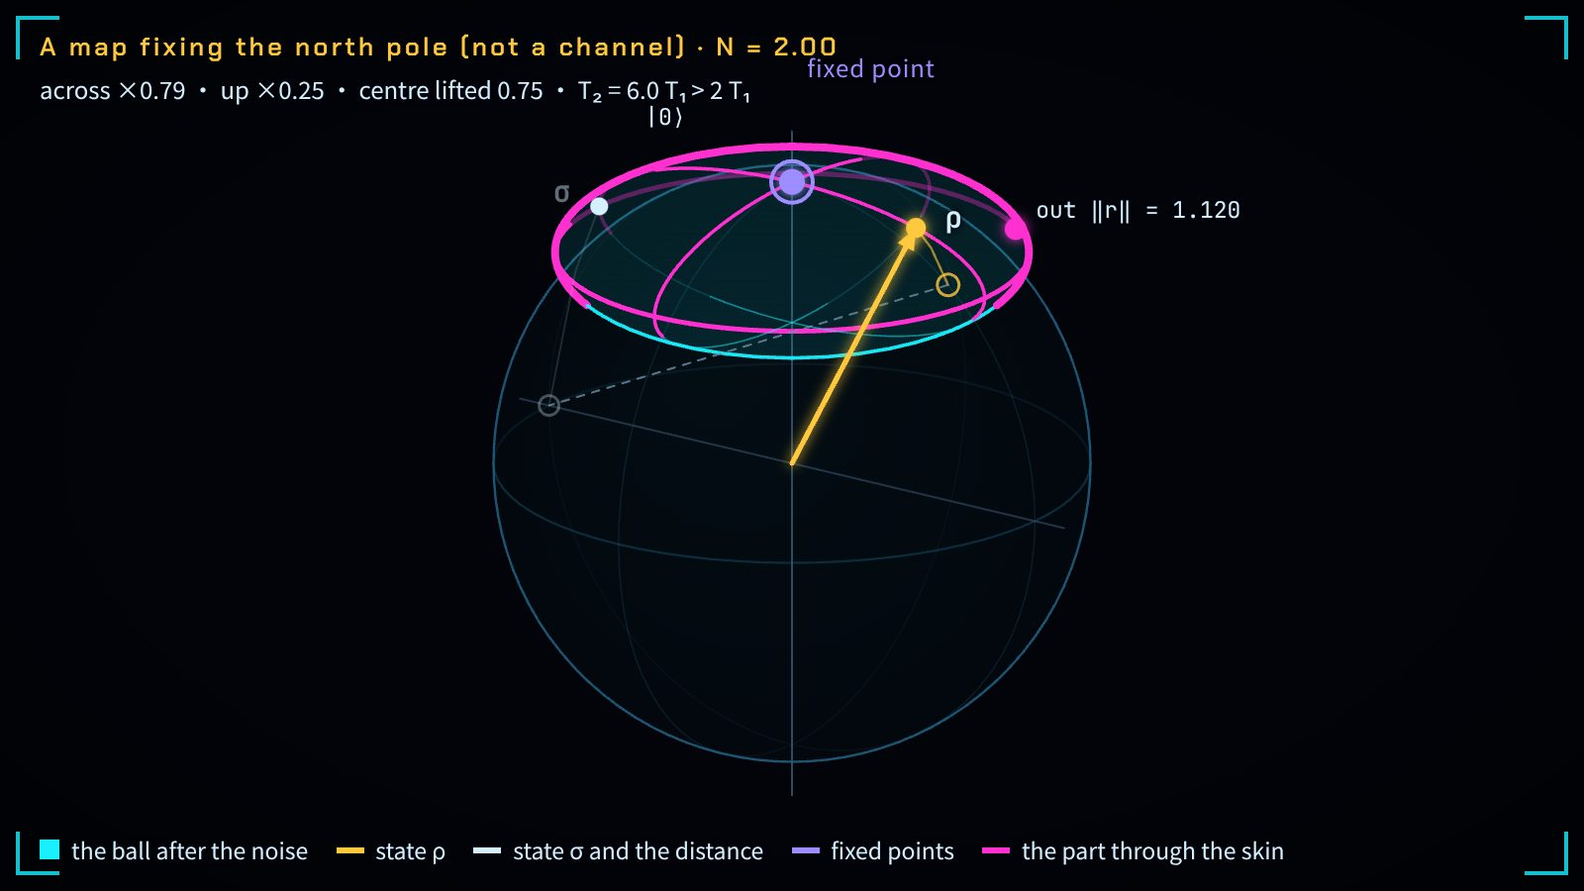
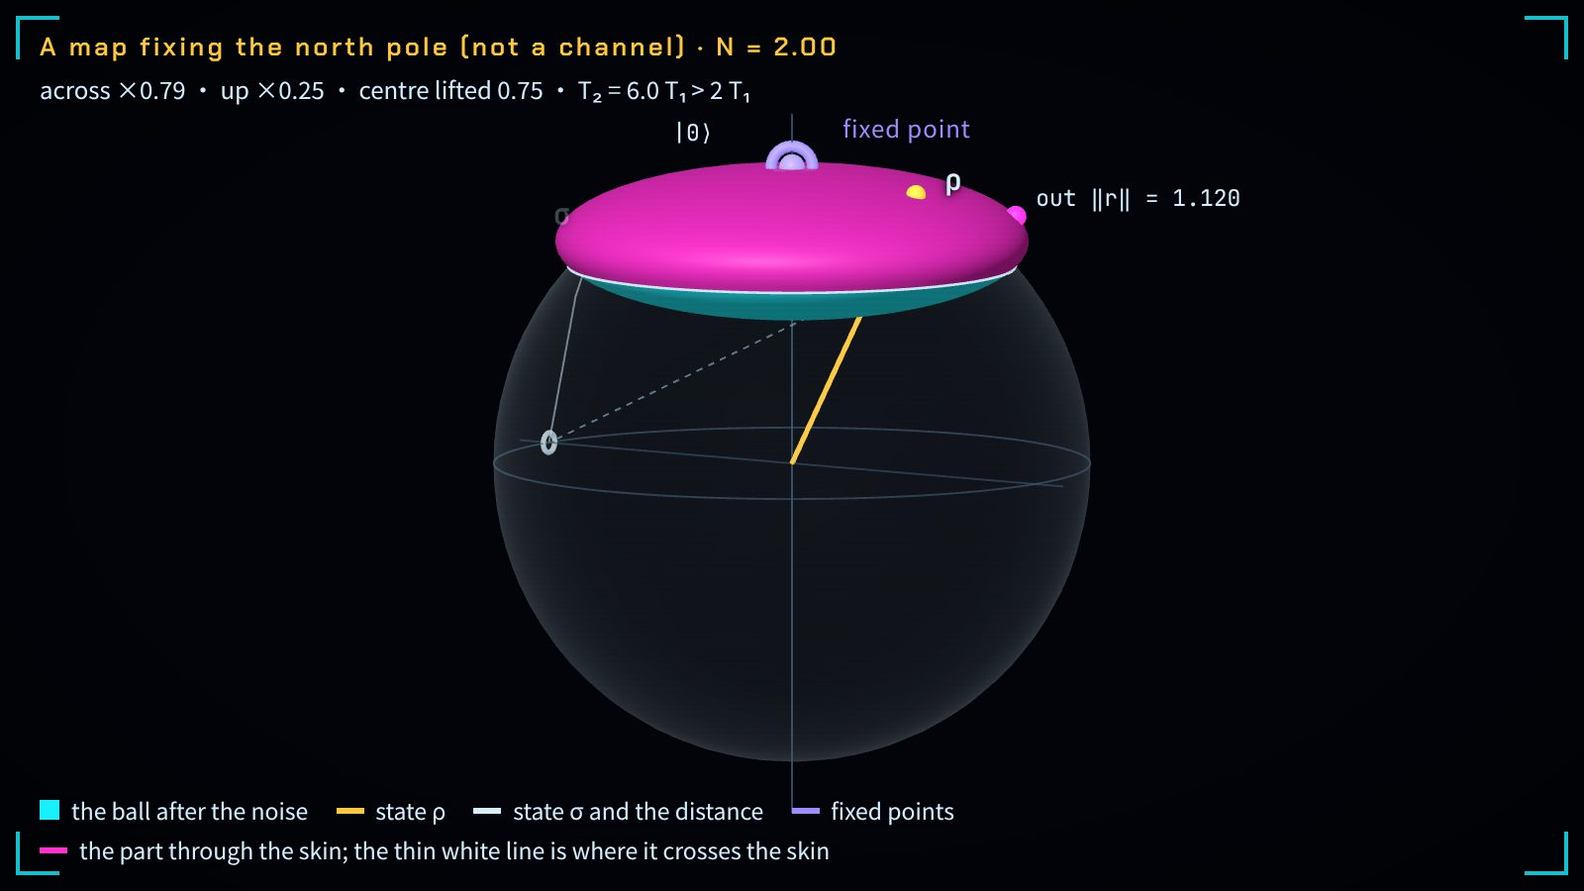
bloch-noise：不是信道的映射画成玻璃球壳里的受光实体，刺出球壳的一块着品红
只有 T2 > 2T1 一卡（及自由探索里 λ² > a 的映射）改用 kit.solid：单位球为玻璃球壳，
像为不透明受光实体，球里青色、球外品红，交线为白色细线，该卡镜头放低、下一张卡还原。
其余六张卡仍是线框画法，静态图与封面逐字节不变。测试另加独立核对：品红一块的起点
（二分法）、交线落在单位球面、画面像素颜色、书内静止交还上下文。

Changed region(s): [[0.3125, 0.1244, 0.7812, 0.8711], [0.0, 0.9022, 0.8125, 0.9644], [0.5, 0.0622, 0.5938, 0.0933]]

diff --git a/books/quantum-geometry/viz/bloch-noise/index.html b/books/quantum-geometry/viz/bloch-noise/index.html
@@ -71,8 +71,9 @@
   </aside>
 
   <main class="center">
-    <div class="stage" id="stage" data-thumb aria-label="布洛赫球：细线是噪声之前的单位球，青色是噪声之后球的像；琥珀色的态 ρ、白色的态 σ 与它们之间的白线；紫色是不动点" data-aria-en="Bloch ball: the thin wire is the unit ball before the noise, the cyan body is its image after the noise; the amber state ρ, the white state σ and the white line between them; violet marks the fixed points">
+    <div class="stage" id="stage" data-thumb aria-label="布洛赫球：细线是噪声之前的单位球，青色是噪声之后球的像；琥珀色的态 ρ、白色的态 σ 与它们之间的白线；紫色是不动点；不是信道的映射下，单位球画成玻璃球壳，像画成受光的实体，落在球外的一块是品红" data-aria-en="Bloch ball: the thin wire is the unit ball before the noise, the cyan body is its image after the noise; the amber state ρ, the white state σ and the white line between them; violet marks the fixed points; for a map that is not a channel the unit ball is a glass shell and the image a lit solid, magenta where it lies outside the ball">
       <canvas class="fill" id="cv"></canvas>
+      <canvas class="fill" id="sv" aria-hidden="true"></canvas>
       <div class="scan"></div><div class="vig"></div>
       <span class="bracket tl"></span><span class="bracket tr"></span><span class="bracket bl"></span><span class="bracket br"></span>
       <div class="hud-tl"><span class="big" id="hudBig"></span><span class="sub" id="hudSub"></span></div>
@@ -81,7 +82,7 @@
         <span><i class="sw am"></i><span class="zh">态 ρ</span><span class="en">state ρ</span></span>
         <span><i class="sw ik"></i><span class="zh">态 σ 与两态距离</span><span class="en">state σ and the distance</span></span>
         <span><i class="sw vi"></i><span class="zh">不动点</span><span class="en">fixed points</span></span>
-        <span id="legEsc" hidden><i class="sw mg"></i><span class="zh">刺穿球皮的部分</span><span class="en">the part through the skin</span></span>
+        <span id="legEsc" hidden><i class="sw mg"></i><span class="zh">刺穿球皮的部分；白色细线是它与球皮的交线</span><span class="en">the part through the skin; the thin white line is where it crosses the skin</span></span>
       </div>
       <div class="toast" id="toast" role="status" aria-live="polite"></div>
     </div>
@@ -155,7 +156,7 @@
       <ol>
         <li><b>三种噪声的形状。</b>相位阻尼 (cx, cy, z)：只收腰、不掉高，不动点是整根竖轴；振幅阻尼 (√a x, √a y, az + 1 − a)：缩小并往北极上漂，只有北极不动；去极化 (fx, fy, fz)：同心缩小，只有球心不动。页面里每一步取 c = 1 − p、a = 1 − p、f = 1 − p，走 N 步就是 c^N、a^N、f^N。上面说的不动点都是 p &gt; 0 时的；p = 0 时三种噪声每一步都是恒等映射，整颗球处处不动。这些布洛赫形式是标准教材算例：文献结果，未在本书形式化。</li>
         <li><b>相位阻尼与捏合。</b>相位阻尼迭代 N 次只把副对角元乘以 c^N：<a class="leanref" data-lean-gid="D5/S3/Quantum/QubitWitnesses.phaseDampingIterate_apply" href="#" target="_blank" rel="noopener"><code>phaseDampingIterate_apply</code></a>（LEAN ✓）；c &lt; 1 时等权叠加态的相干元趋于零：<a class="leanref" data-lean-gid="D5/S3/Quantum/Decoherence/CoherenceDecay.equal_superposition_coherence_tendsto_zero" href="#" target="_blank" rel="noopener"><code>equal_superposition_coherence_tendsto_zero</code></a>（LEAN ✓）。c = 0 一步就是捏合：捏合丢掉的相干质量是 |ρ₀₁|² + |ρ₁₀|²，在布洛赫坐标里等于 (x² + y²)/2（手算）：<a class="leanref" data-lean-gid="D5/S3/QuantumChannels/PinchingProjection.pinching_discarded_coherence_mass" href="#" target="_blank" rel="noopener"><code>pinching_discarded_coherence_mass</code></a>（LEAN ✓）；捏合的不动点恰是副对角元为零的矩阵，即竖轴：<a class="leanref" data-lean-gid="D5/S3/QuantumChannels/CoherenceMassBridge.pinching_eq_self_iff_offDiag_eq_zero" href="#" target="_blank" rel="noopener"><code>pinching_eq_self_iff_offDiag_eq_zero</code></a>（LEAN ✓）。</li>
-        <li><b>横向最多留多少。</b>固定北极的映射 (λx, λy, az + 1 − a) 保持整个闭单位球，当且仅当 λ² ≤ a：<a class="leanref" data-lean-gid="D5/S3/QuantumChannels/ContractionGeometry/NorthPoleBallCriterion.north_pole_ball_preserving_iff" href="#" target="_blank" rel="noopener"><code>north_pole_ball_preserving_iff</code></a>（LEAN ✓）。纯振幅阻尼取 λ = √a，恰好饱和。滑块 T₂ / T₁ 按第四章的指数包络 a = e^{−t/T₁}、λ = e^{−t/T₂} 取 λ = a^{T₁/T₂}；于是当 0 &lt; p &lt; 1（即 0 &lt; a &lt; 1）时，λ² ≤ a 当且仅当 T₂ ≤ 2T₁，T₂ &gt; 2T₁ 时像的一部分落到球外（品红），这样的映射不把态送到态。p = 0 与 p = 1 两端对任何比值都有 λ² = a：p = 0 时每一步是恒等映射，p = 1 时每一步是 γ = 1 的振幅阻尼，把整颗球复位到北极，两者都是信道。这里判定的只是球的保持性，不是完全正性。</li>
+        <li><b>横向最多留多少。</b>固定北极的映射 (λx, λy, az + 1 − a) 保持整个闭单位球，当且仅当 λ² ≤ a：<a class="leanref" data-lean-gid="D5/S3/QuantumChannels/ContractionGeometry/NorthPoleBallCriterion.north_pole_ball_preserving_iff" href="#" target="_blank" rel="noopener"><code>north_pole_ball_preserving_iff</code></a>（LEAN ✓）。纯振幅阻尼取 λ = √a，恰好饱和。滑块 T₂ / T₁ 按第四章的指数包络 a = e^{−t/T₁}、λ = e^{−t/T₂} 取 λ = a^{T₁/T₂}；于是当 0 &lt; p &lt; 1（即 0 &lt; a &lt; 1）时，λ² ≤ a 当且仅当 T₂ ≤ 2T₁，T₂ &gt; 2T₁ 时像的一部分落到球外（品红），这样的映射不把态送到态；这时舞台把单位球画成玻璃球壳、把像画成受光的实体，刺出的一块着品红，它与球壳的交线是一圈白色细线。p = 0 与 p = 1 两端对任何比值都有 λ² = a：p = 0 时每一步是恒等映射，p = 1 时每一步是 γ = 1 的振幅阻尼，把整颗球复位到北极，两者都是信道。这里判定的只是球的保持性，不是完全正性。</li>
         <li><b>距离只减不增。</b>对任意量子信道，迹距离不增：<a class="leanref" data-lean-gid="D5/S3/Quantum/Foundation/FiniteTraceDistance.traceDistance_contract" href="#" target="_blank" rel="noopener"><code>traceDistance_contract</code></a>（LEAN ✓）。单比特上 T = ½‖r − s‖ 是手算换算。步与步之间页面取相邻两个整数步输出的凸组合；每一步是信道时它也是信道，所以白线在整条时间轴上都只缩不长；整数步上的数与 N 次迭代完全一致。</li>
         <li><b>球心。</b>强度为 1 的去极化把整颗球送到球心 r = 0，即 ρ = I/2：从哪个态出发都落在同一点，距离为零。</li>
       </ol>
@@ -166,7 +167,7 @@
       <ol>
         <li><b>The shapes of the three noises.</b> Phase damping (cx, cy, z) narrows the waist and keeps the height; its fixed points are the whole vertical axis. Amplitude damping (√a x, √a y, az + 1 − a) shrinks the ball and lifts it towards the north pole, the only fixed point. Depolarizing (fx, fy, fz) shrinks it evenly towards the centre, the only fixed point. Each step on the page takes c = 1 − p, a = 1 − p, f = 1 − p, so N steps give c^N, a^N, f^N. The fixed points named here are those for p &gt; 0; at p = 0 each of the three noises is the identity at every step, and the whole ball stays put. These Bloch forms are standard textbook computations: literature result, not formalized in this book.</li>
         <li><b>Phase damping and pinching.</b> Phase damping iterated N times only multiplies the off-diagonal entries by c^N: <a class="leanref" data-lean-gid="D5/S3/Quantum/QubitWitnesses.phaseDampingIterate_apply" href="#" target="_blank" rel="noopener"><code>phaseDampingIterate_apply</code></a> (LEAN ✓); for c &lt; 1 the coherence of the equal superposition tends to zero: <a class="leanref" data-lean-gid="D5/S3/Quantum/Decoherence/CoherenceDecay.equal_superposition_coherence_tendsto_zero" href="#" target="_blank" rel="noopener"><code>equal_superposition_coherence_tendsto_zero</code></a> (LEAN ✓). One step with c = 0 is pinching: the coherence mass it discards is |ρ₀₁|² + |ρ₁₀|², which is (x² + y²)/2 in Bloch coordinates (by hand): <a class="leanref" data-lean-gid="D5/S3/QuantumChannels/PinchingProjection.pinching_discarded_coherence_mass" href="#" target="_blank" rel="noopener"><code>pinching_discarded_coherence_mass</code></a> (LEAN ✓); the fixed points of pinching are exactly the matrices with zero off-diagonal entries, the vertical axis: <a class="leanref" data-lean-gid="D5/S3/QuantumChannels/CoherenceMassBridge.pinching_eq_self_iff_offDiag_eq_zero" href="#" target="_blank" rel="noopener"><code>pinching_eq_self_iff_offDiag_eq_zero</code></a> (LEAN ✓).</li>
-        <li><b>How much may stay sideways.</b> The north-pole map (λx, λy, az + 1 − a) keeps the whole closed unit ball if and only if λ² ≤ a: <a class="leanref" data-lean-gid="D5/S3/QuantumChannels/ContractionGeometry/NorthPoleBallCriterion.north_pole_ball_preserving_iff" href="#" target="_blank" rel="noopener"><code>north_pole_ball_preserving_iff</code></a> (LEAN ✓). Pure amplitude damping takes λ = √a and saturates it. The T₂ / T₁ slider follows the exponential envelopes of Chapter 4, a = e^{−t/T₁} and λ = e^{−t/T₂}, so λ = a^{T₁/T₂}. For 0 &lt; p &lt; 1 (that is, 0 &lt; a &lt; 1), λ² ≤ a exactly when T₂ ≤ 2T₁; for T₂ &gt; 2T₁ part of the image lies outside the ball (magenta), and such a map does not send states to states. At the two ends λ² = a whatever the ratio: at p = 0 each step is the identity, and at p = 1 each step is amplitude damping with γ = 1, which resets the whole ball to the north pole; both are channels. This decides only whether the ball is kept, not complete positivity.</li>
+        <li><b>How much may stay sideways.</b> The north-pole map (λx, λy, az + 1 − a) keeps the whole closed unit ball if and only if λ² ≤ a: <a class="leanref" data-lean-gid="D5/S3/QuantumChannels/ContractionGeometry/NorthPoleBallCriterion.north_pole_ball_preserving_iff" href="#" target="_blank" rel="noopener"><code>north_pole_ball_preserving_iff</code></a> (LEAN ✓). Pure amplitude damping takes λ = √a and saturates it. The T₂ / T₁ slider follows the exponential envelopes of Chapter 4, a = e^{−t/T₁} and λ = e^{−t/T₂}, so λ = a^{T₁/T₂}. For 0 &lt; p &lt; 1 (that is, 0 &lt; a &lt; 1), λ² ≤ a exactly when T₂ ≤ 2T₁; for T₂ &gt; 2T₁ part of the image lies outside the ball (magenta), and such a map does not send states to states; the stage then draws the unit ball as a glass shell and the image as a lit solid, the piece that sticks out in magenta, with a thin white line where it crosses the shell. At the two ends λ² = a whatever the ratio: at p = 0 each step is the identity, and at p = 1 each step is amplitude damping with γ = 1, which resets the whole ball to the north pole; both are channels. This decides only whether the ball is kept, not complete positivity.</li>
         <li><b>Distances never grow.</b> The trace distance does not grow under any quantum channel: <a class="leanref" data-lean-gid="D5/S3/Quantum/Foundation/FiniteTraceDistance.traceDistance_contract" href="#" target="_blank" rel="noopener"><code>traceDistance_contract</code></a> (LEAN ✓). On a qubit, T = ½‖r − s‖ is a hand computation. Between steps the page takes the convex combination of the outputs of the two neighbouring whole steps; when each step is a channel, so is that combination, and the white line only shrinks along the whole rail; at whole steps the numbers are exactly those of N iterations.</li>
         <li><b>The centre.</b> Depolarizing at strength 1 sends the whole ball to the centre r = 0, that is ρ = I/2: every starting state lands on the same point, at distance zero.</li>
       </ol>

diff --git a/books/quantum-geometry/viz/bloch-noise/main.js b/books/quantum-geometry/viz/bloch-noise/main.js
@@ -5,7 +5,8 @@
      depolarizing   (f x, f y, f z)                  f = 1 − p per step
    The rail counts steps N. At whole N the map is exactly N steps; between two whole steps the page takes the convex
    combination of the outputs of the two neighbouring whole steps. The stage draws the unit ball before (thin wire),
-   its image (cyan), two states ρ (amber) and σ (white) that start on the skin, their distance, and the fixed points.
+   its image (cyan), two states ρ (amber) and σ (white) that start on the skin, their distance, and the fixed points;
+   a map that is not a channel is drawn as a lit solid in a glass shell instead (drawSolid).
    Read-only probe for the browser suite: window.NOISE_DEBUG. */
 (() => {
   'use strict';
@@ -76,7 +77,8 @@
     canvas: $('cv'), radius: TRV.thumbMode ? 0.41 : 0.335, cy: TRV.figure ? 0.53 : 0.52,
     onChange: () => paint(),
     onPick: (ev, st) => {
-      const now = read(clock.t), d = (v) => st.near(ev, v);
+      const now = read(clock.t);
+      const d = (v) => (solidOn && solid.occluded(v, 0.02) ? 1e9 : st.near(ev, v));   // what the solid hides cannot be picked
       const dr = Math.min(d(S.rho0), d(now.rho)), ds = Math.min(d(S.sig0), d(now.sig));
       grab = Math.min(dr, ds) < 22 ? (dr <= ds ? 'rho' : 'sig') : null;
       return !!grab;
@@ -84,6 +86,94 @@
     onDrag: (ev, st) => { const r = v3.unit(st.pick(ev)); if (grab === 'rho') S.rho0 = r; else if (grab === 'sig') S.sig0 = r; touched(); },
     onDrop: () => { grab = null; }
   });
+  /* ---------- the solid stage: a map that is not a channel ----------
+     When one step breaks the north-pole criterion (λ² > a, the card T2 > 2T1), the question the page asks is which
+     part of the image lies outside the ball; a wire outline cannot tell inside from outside there. For that case only,
+     the stage draws with kit.solid, under the same camera: the unit ball as a glass shell, its image as a lit opaque
+     solid, cyan inside the ball and magenta where it lies outside, the trace of the solid on the skin as a thin white
+     line. Marks sit on the solid and are hidden where it hides them. Every other state keeps the wire stage above. */
+  const solid = kit.solid($('stage'), { canvas: $('sv'), radius: TRV.thumbMode ? 0.41 : 0.335, cy: TRV.figure ? 0.53 : 0.52, rotate: false, onChange: () => paint() });
+  let solidOn = false;
+  /** Where the image lies outside the unit ball: |F|² − 1 = (a² − λ²) z² + 2ah z + h² + λ² − 1 > 0 for the pre-image
+      height z of a point of the sphere. For the amplitude family z = 1 is a root (the fixed north pole), so the part
+      outside is the image of the cap z0 < z ≤ 1. Returns z0, or null when nothing lies outside. */
+  function capOf(m) {
+    const A = m.a * m.a - m.lam * m.lam, B = 2 * m.a * m.h, C = m.h * m.h + m.lam * m.lam - 1;
+    if (farthest(m).r <= 1 + 1e-9 || A >= -1e-12) return null;
+    const disc = Math.sqrt(Math.max(0, B * B - 4 * A * C));
+    return kit.clamp(Math.min((-B + disc) / (2 * A), (-B - disc) / (2 * A)), -1, 1);
+  }
+  const NU = 96, K = 18;
+  /** The image solid, sampled on columns of the azimuth (run backwards, so that the grid's normals point outwards); in
+      every column the polar angle runs in two stretches that meet at the polar angle θ0 of the cap, so that the
+      magenta edge is exact. A half-axis thinner than a few pixels is drawn at that thickness (no zero-thickness sheet);
+      when both are, the image is one point and the dots show it. */
+  function drawImage(sc, m) {
+    const eps = 3.5 / sc.unit, lam = Math.max(m.lam, eps), a = Math.max(m.a, eps);
+    if (m.lam < eps && m.a < eps) return { z0: null };
+    const z0 = capOf(m), th0 = z0 == null ? 0 : Math.acos(z0), rows = [];
+    for (let j = 0; j <= 2 * K + 1; j++) rows.push([]);
+    for (let i = 0; i <= NU; i++) {
+      const ph = -2 * Math.PI * i / NU, at = (th) => [lam * Math.sin(th) * Math.cos(ph), lam * Math.sin(th) * Math.sin(ph), a * Math.cos(th) + m.h];
+      for (let j = 0; j <= K; j++) rows[j].push(at(th0 * j / K));
+      for (let j = 0; j <= K; j++) rows[K + 1 + j].push(at(th0 + (Math.PI - th0) * j / K));
+    }
+    const nv = 2 * K + 1;
+    sc.surface('image', rows, { colors: [P.cyan, P.magenta], range: [0, 1], value: (u, v) => (z0 != null && Math.round(v * nv) <= K ? 1 : 0) });
+    return { z0 };
+  }
+  function drawSolid(on, now) {
+    const sc = solid, m = now.m;
+    if (!on) { if (solidOn) { sc.begin(); sc.end(); solidOn = false; } return; }
+    solidOn = true;
+    Object.assign(sc.cam, { yaw: stage.cam.yaw, pitch: stage.cam.pitch, zoom: stage.cam.zoom });
+    sc.begin();
+    sc.glass('ball', [0, 0, 0], 1, { color: P.ink, alpha: 0.045, rim: 0.32 });
+    const eq = []; for (let i = 0; i <= 96; i++) { const t = 2 * Math.PI * i / 96; eq.push([Math.cos(t), Math.sin(t), 0]); }
+    sc.line(eq, { color: P.faint, width: 1, alpha: 0.7 });
+    sc.line([[0, 0, -1.18], [0, 0, 1.18]], { color: P.faint, width: 1, alpha: 0.9 });
+    sc.line([[-1.12, 0, 0], [1.12, 0, 0]], { color: P.faint, width: 1, alpha: 0.6 });
+    sc.tag('k0', [0, 0, 1.08], '|0⟩', 'num', now.escapes ? { dx: -50, dy: -6 } : { dx: -22 });
+    const img = drawImage(sc, m);
+    // the trace of the solid on the skin: the circle at the image height a z0 + h
+    if (img.z0 != null) {
+      const zc = m.a * img.z0 + m.h, rc = m.lam * Math.sqrt(Math.max(0, 1 - img.z0 * img.z0)) * 1.004, ring = [];
+      for (let i = 0; i <= 120; i++) { const t = 2 * Math.PI * i / 120; ring.push([rc * Math.cos(t), rc * Math.sin(t), zc]); }
+      sc.line(ring, { color: P.ink, width: 1.4, alpha: 0.95 });
+    }
+    // the fixed north pole (on the tip of the solid: always in view), and the farthest image point
+    if (S.p > 1e-9 && clock.t > 1e-9) {
+      sc.bead([0, 0, 1], { color: P.violet, r: 6.5, glow: 0.8, key: 'fix' });
+      sc.ring([0, 0, 1], { color: P.violet, r: 10.5, normal: sc.facing() });
+      sc.tag('fx', [0, 0, 1], L('不动点', 'fixed point'), 'raw c-vi', now.escapes ? { dx: 58, dy: -20, occlude: false } : { dx: 54, dy: -12, occlude: false });
+    }
+    if (now.escapes) {
+      const side = v3.unit(v3.cross([0, 0, 1], sc.facing())), z = now.far.z, w = Math.sqrt(Math.max(0, 1 - z * z));
+      const q = apply(m, [w * side[0], w * side[1], z]);
+      sc.bead(q, { color: P.magenta, r: 5.5, glow: 0.8, key: 'esc' });
+      const tight = sc.p(q)[0] + 150 > sc.W;   // a narrow stage: the label goes below the point instead of beside it
+      sc.tag('esc', q, L(`出界 ‖r‖ = ${fix(now.far.r, 3)}`, `out ‖r‖ = ${fix(now.far.r, 3)}`), 'num c-mg', tight ? { dx: -40, dy: 42, occlude: false } : { dx: 62, dy: -10, occlude: false });
+    }
+    // the two states: where they started (rings on the skin), the road travelled, where they are now (no distance:
+    // the map is not a channel)
+    const road = (v) => { const pts = [], n = Math.max(2, Math.ceil(clock.t * 24)); for (let i = 0; i <= n; i++) pts.push(apply(mapAt(clock.t * i / n), v)); return pts; };
+    if (clock.t > 1e-9) {
+      sc.line(road(S.sig0), { color: P.ink, width: 1, alpha: 0.5 });
+      sc.line(road(S.rho0), { color: P.amber, width: 1.2, alpha: 0.65 });
+      sc.line([S.rho0, S.sig0], { color: P.dim, width: 1, alpha: 0.8, dash: [4, 4] });
+    }
+    sc.ring(S.sig0, { color: P.ink, r: 5, alpha: 0.75, normal: S.sig0, key: 'sig0' });
+    sc.ring(S.rho0, { color: P.amber, r: 5.5, alpha: 0.85, normal: S.rho0, key: 'rho0' });
+    sc.bead(now.sig, { color: P.ink, r: 4.5, glow: 0.4, key: 'sig' });
+    sc.arrow([0, 0, 0], now.rho, { color: P.amber, width: 2.6, headSize: 11 });
+    sc.bead(now.rho, { color: P.amber, r: 5, glow: 0.7, key: 'rho' });
+    const pr = sc.p(now.rho), ps = sc.p(now.sig), dx = pr[0] - ps[0], dy = pr[1] - ps[1], dl = Math.hypot(dx, dy);
+    const ux = dl > 1 ? dx / dl : 1, uy = dl > 1 ? dy / dl : 0;
+    sc.tag('rho', now.rho, 'ρ', 'num c-am big', { dx: 15 * ux + 4, dy: 15 * uy - 6 });
+    sc.tag('sig', now.sig, 'σ', 'num big', { dx: -15 * ux - 4, dy: -15 * uy - 6 });
+    sc.end();
+  }
+
   /** Draw a polyline of world points, magenta (thicker) where it lies outside the unit ball and `color` inside. */
   function runs(pts, color, s) {
     let cur = [pts[0]], out = null;
@@ -96,7 +186,11 @@
     flush();
   }
   function drawStage() {
-    const st = stage, c = st.begin(), now = read(clock.t), m = now.m, D = st.facing(), thick = TRV.thumbMode ? 1.6 : 1;
+    // a map that is not a channel is drawn on the solid stage (see drawSolid); everything else on the wire stage below
+    const now = read(clock.t), solidNow = !env() && notChannel();
+    drawSolid(solidNow, now);
+    const st = stage, c = st.begin(), m = now.m, D = st.facing(), thick = TRV.thumbMode ? 1.6 : 1;
+    if (!solidNow) {
     // the unit ball before the noise
     st.sphere(1, { lat: [0], lon: 2, shade: 0.04, alpha: TRV.thumbMode ? 0.75 : 0.4 });
     st.line([0, 0, -1.18], [0, 0, 1.18], { color: P.faint, width: 1, alpha: 0.9, back: 0.5 });
@@ -162,6 +256,7 @@
     st.tag('rho', now.rho, 'ρ', 'num c-am big', { dx: 15 * ux + 4, dy: 15 * uy - 6 });
     st.tag('sig', now.sig, 'σ', 'num big', { dx: -15 * ux - 4, dy: -15 * uy - 6 });
     if (dl > 46 && !notChannel()) st.tag('T', v3.scale(v3.add(now.rho, now.sig), 0.5), `T ${fix(now.T, 3)}`, 'num', { dx: 14 * -uy, dy: 14 * ux });
+    }
     st.end();
     $('legEsc').hidden = !now.escapes;
     if (env()) {
@@ -290,12 +385,19 @@
     centre: ['强度 1 的去极化：整颗球缩成紫色的球心一点。北极的 ρ 与 +x 的 σ 落在同一处，距离为零。', 'Depolarizing at strength 1: the whole ball shrinks to the violet centre. ρ from the north pole and σ from +x land on the same spot, at distance zero.']
   };
   let booting = true;
+  const WIDE_PITCH = 0.12;
+  let camBefore = null;
   function applyPreset(id) {
     const p = PRESETS[id];
     clock.pause();
     S.scene = p.scene || 'noise';
     S.ch = p.ch; S.p = p.p; S.ratio = p.ratio; S.rho0 = at(p.rho[0], p.rho[1]); S.sig0 = at(p.sig[0], p.sig[1]);
     chChips.set(p.ch, true); fP.set(p.p); fR.set(p.ratio);
+    // T2 > 2T1 looks at the solid from lower down, so that the magenta piece shows sideways past the glass shell; the
+    // camera the reader had is given back when the next card is picked
+    const cam = stage.cam;
+    if (id === 'wide') { if (!camBefore) camBefore = { yaw: cam.yaw, pitch: cam.pitch }; cam.pitch = WIDE_PITCH; }
+    else if (camBefore) { Object.assign(cam, camBefore); camBefore = null; }
     setMax(p.max); clock.set(0);
     // a still (cover, cited figure shot) and the opening view of the full page show the card's telling frame;
     // inside a chapter the card plays once the reader has scrolled it into view; a click plays at once
@@ -318,6 +420,9 @@
     at: (N) => { const s = read(N); return { rho: s.rho, sig: s.sig, lam: s.m.lam, a: s.m.a, h: s.m.h, T: s.T, escapes: s.escapes, farthest: s.far.r }; },
     seek: (t) => { clock.pause(); clock.set(t); },
     camera: () => Object.assign({}, stage.cam),
+    /** The image as the stage draws it now: 'wire', or 'solid' (a map that is not a channel), with its half-axes and
+        centre and the pre-image height z0 above which it lies outside the ball (null: nowhere). */
+    image: () => { const m = mapAt(clock.t); return { drawn: solidOn ? 'solid' : 'wire', lam: m.lam, a: m.a, h: m.h, z0: capOf(m) }; },
     /** Viewport coordinates of a world point (for pointer tests). */
     screen: (v) => { const q = stage.p(v), b = $('cv').getBoundingClientRect(); return [b.left + q[0], b.top + q[1]]; }
   };
